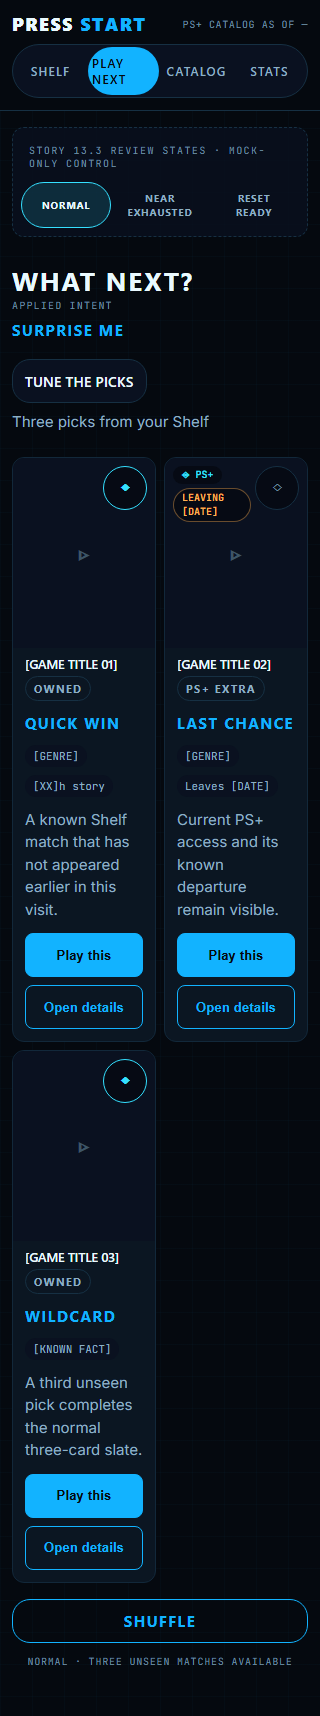
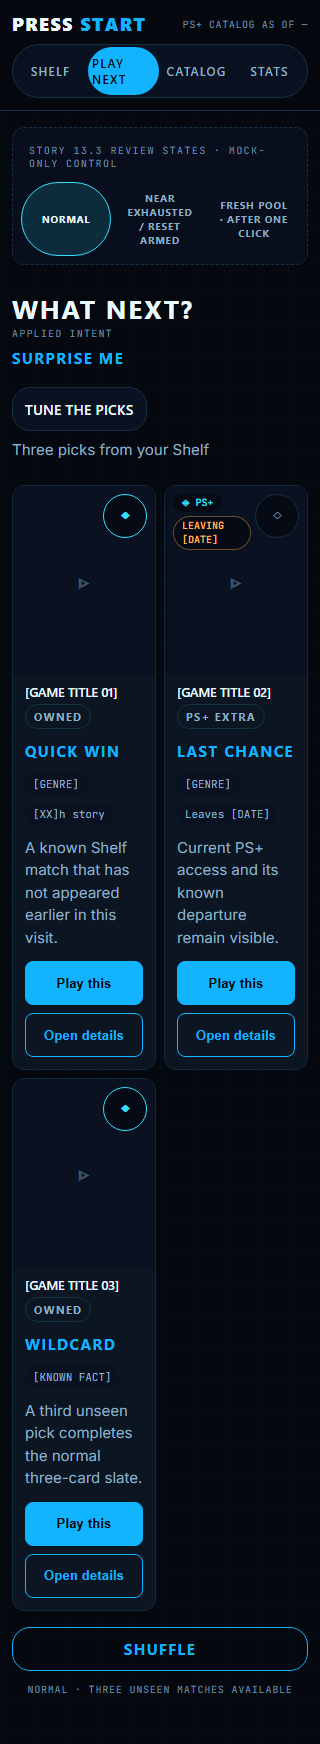
fix(design): make exhausted shuffle immediate

diff --git a/_bmad-output/design-demos/epic-13-play-next/06-story-13-3-shuffle-states.html b/_bmad-output/design-demos/epic-13-play-next/06-story-13-3-shuffle-states.html
@@ -9,8 +9,8 @@ ASSUMPTIONS / ITERATION SOURCE
 - Continuation of Luca-approved Direction A and binding 05 Story 13.2 modal/card mock.
 - Production UI adds only Shuffle below cards and adjacent exhaustion status.
 - State switcher is mock-only review chrome, never production UI.
-- Near-exhausted and reset-ready intentionally share production treatment: exact warning copy
-  communicates that the same Shuffle control performs the fresh-pool transition next.
+- Near-exhausted IS reset-ready. One next Shuffle immediately produces a fresh slate
+  while excluding the two cards currently visible. There is no intermediate click.
 -->
 <style>
 @font-face{font-family:Orbitron;src:url('../../../node_modules/@fontsource-variable/orbitron/files/orbitron-latin-wght-normal.woff2')}
@@ -107,8 +107,8 @@ main{max-width:1120px;margin:auto;padding:var(--space-5) var(--space-4) 56px}
 		<p class="mock-bar__label">STORY 13.3 REVIEW STATES · MOCK-ONLY CONTROL</p>
 		<div class="mock-bar__states">
 			<button class="mock-state" type="button" data-next-state="normal" aria-pressed="true">NORMAL</button>
-			<button class="mock-state" type="button" data-next-state="exhausted" aria-pressed="false">NEAR EXHAUSTED</button>
-			<button class="mock-state" type="button" data-next-state="reset" aria-pressed="false">RESET READY</button>
+			<button class="mock-state" type="button" data-next-state="exhausted" aria-pressed="false">NEAR EXHAUSTED / RESET ARMED</button>
+			<button class="mock-state" type="button" data-next-state="fresh" aria-pressed="false">FRESH POOL · AFTER ONE CLICK</button>
 		</div>
 	</div>
 	<section aria-labelledby="play-next-heading">
@@ -134,22 +134,25 @@ const warning=document.querySelector('.shuffle-warning');
 const third=document.querySelector('[data-card="3"]');
 const caption=document.querySelector('.state-caption');
 const stateButtons=[...document.querySelectorAll('[data-next-state]')];
+const titles=[...document.querySelectorAll('.card__title-row h2')];
 function setState(state){
 	document.body.dataset.state=state;
 	stateButtons.forEach(button=>button.setAttribute('aria-pressed',String(button.dataset.nextState===state)));
-	const depleted=state!=='normal';
+	const depleted=state==='exhausted';
 	warning.hidden=!depleted;
 	third.hidden=depleted;
-	caption.textContent=state==='normal'?'NORMAL · THREE UNSEEN MATCHES AVAILABLE':state==='exhausted'?'NEAR EXHAUSTED · HONEST TWO-CARD SLATE':'RESET READY · NEXT SHUFFLE STARTS FRESH, CURRENT CARDS STAY EXCLUDED';
+	const fresh=state==='fresh';
+	titles.forEach((title,index)=>{title.textContent=`[GAME TITLE ${String(index+(fresh?4:1)).padStart(2,'0')}]`});
+	caption.textContent=state==='normal'?'NORMAL · THREE UNSEEN MATCHES AVAILABLE':state==='exhausted'?'NEAR EXHAUSTED + RESET ARMED · NEXT CLICK STARTS FRESH':'FRESH POOL · ONE CLICK LATER · PREVIOUS CARDS EXCLUDED';
 	location.hash=state;
 }
 stateButtons.forEach(button=>button.addEventListener('click',()=>setState(button.dataset.nextState)));
-document.querySelector('.shuffle-button').addEventListener('click',()=>setState(document.body.dataset.state==='normal'?'exhausted':document.body.dataset.state==='exhausted'?'reset':'normal'));
+document.querySelector('.shuffle-button').addEventListener('click',()=>setState(document.body.dataset.state==='exhausted'?'fresh':'exhausted'));
 const backdrop=document.querySelector('[data-backdrop]');const modal=backdrop.querySelector('.tune');const trigger=document.querySelector('.tune-trigger');
 function openTune(){backdrop.hidden=false;trigger.setAttribute('aria-expanded','true');document.body.style.overflow='hidden';modal.focus()}
 function closeTune(){backdrop.hidden=true;trigger.setAttribute('aria-expanded','false');document.body.style.overflow='';trigger.focus()}
 trigger.addEventListener('click',openTune);backdrop.querySelector('.tune__close').addEventListener('click',closeTune);backdrop.addEventListener('mousedown',event=>{if(event.target===backdrop)closeTune()});document.addEventListener('keydown',event=>{if(event.key==='Escape'&&!backdrop.hidden)closeTune()});
-setState(location.hash.slice(1)==='exhausted'?'exhausted':location.hash.slice(1)==='reset'?'reset':'normal');
+setState(location.hash.slice(1)==='exhausted'?'exhausted':location.hash.slice(1)==='fresh'?'fresh':'normal');
 </script>
 </body>
 </html>

diff --git a/_bmad-output/implementation-artifacts/spec-13-3-shuffle-without-repetition.md b/_bmad-output/implementation-artifacts/spec-13-3-shuffle-without-repetition.md
@@ -77,6 +77,8 @@ warnings: [oversized]
 
 `seenGameIds` contains every game actually displayed during the mounted destination visit, including initial, Tune-applied, shuffled, and fresh-pool slates. The exhausted/reset flag is armed after a one- or two-card replacement, or after a zero-unseen attempt that deliberately preserves the current slate. Fresh-pool selection uses an empty historical exclusion plus current visible IDs; afterward, seen state starts from only the newly displayed slate.
 
+Near-exhausted and reset-ready are one state, not two steps. Once the smaller slate and warning appear, the very next single Shuffle click immediately generates the fresh-pool slate while excluding the cards currently visible.
+
 Exclusions are an optional core selection input and affect eligibility only after full-snapshot context such as Familiar genre anchors is derived. Seed suffixes use one monotonic visit generation counter across Tune and Shuffle so every explicit generation is deterministic and distinct.
 
 Shuffle is a native button below the suggestion grid, matching the approved Story 13.2 card/tuning structure. Warning is programmatic status text adjacent to the control. Motion changes use existing CSS transitions only and are disabled under `prefers-reduced-motion: reduce`.
@@ -95,4 +97,4 @@ Status: blocked
 
 Blocking condition: UI-MOCK-GATE — awaiting Luca's explicit approval of `_bmad-output/design-demos/epic-13-play-next/06-story-13-3-shuffle-states.html` before production UI or core implementation.
 
-Prepared: ready-for-development Story 13.3 spec plus app-aligned interactive mock covering normal, near-exhausted, and reset-ready states at desktop and 320px phone. Six screenshots verified; production code remains untouched.
+Prepared: ready-for-development Story 13.3 spec plus app-aligned interactive mock covering normal, near-exhausted/reset-armed, and fresh-pool-after-one-click states at desktop and 320px phone. Production code remains untouched.

diff --git a/_bmad-output/design-demos/epic-13-play-next/direction-approved.md b/_bmad-output/design-demos/epic-13-play-next/direction-approved.md
@@ -86,3 +86,29 @@ unchanged: still pending.
 Status: approved by Luca on 2026-08-02 for Story 13.2 UI implementation.
 The app-aligned `05-story-13-2-tune-modal.html` is binding implementation
 reference for Tune modal structure and suggestion-card cover composition.
+
+## Story 13.3 Shuffle iteration
+
+Iteration source: approved Story 13.2 app-aligned mock above. Story 13.3 adds
+only Shuffle placement and exhaustion feedback; it does not reopen direction
+selection.
+
+- HTML: `_bmad-output/design-demos/epic-13-play-next/06-story-13-3-shuffle-states.html`
+- Normal desktop/mobile screenshots: `screenshots/06-story-13-3-shuffle-normal-*`
+- Near-exhausted desktop/mobile screenshots: `screenshots/06-story-13-3-shuffle-exhausted-*`
+- Fresh-pool desktop/mobile screenshots: `screenshots/06-story-13-3-shuffle-fresh-pool-*`
+
+## Story 13.3 interaction correction — verbatim
+
+> Why in near exhausted I have to play shuffle twice to actually shuffle? I don't like that
+
+Applied interpretation:
+
+- Mock state machine was wrong; production behavior was never intended to need
+  two clicks.
+- `NEAR EXHAUSTED` and `RESET ARMED` are one state.
+- The next single Shuffle immediately generates a fresh-pool slate while
+  excluding currently visible cards.
+- Removed the misleading intermediate reset-ready state and its screenshots.
+
+Status: pending Luca's explicit approval of revised Story 13.3 mock before UI implementation.
